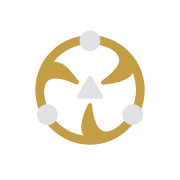
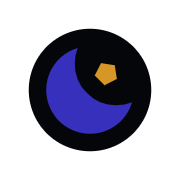
road to hashira (#341)

diff --git a/workspace/apex/src/lib/components/Logo.svelte b/workspace/apex/src/lib/components/Logo.svelte
@@ -1,52 +1,36 @@
-<script lang="ts">
-	interface Props {
-		animate?: boolean;
+<script>
+	function draw(radius = 96, segments = 20) {
+		const step = (2 * Math.PI) / segments;
+		const offset = -Math.PI / 2;
+		let d = '';
+		for (let i = 0; i <= segments; i++) {
+			const angle = i * step + offset;
+			const x = (Math.cos(angle) * radius).toFixed(2);
+			const y = (Math.sin(angle) * radius).toFixed(2);
+			d += i === 0 ? `M ${x} ${y}` : `L ${x} ${y}`;
+		}
+		return d + ' Z';
 	}
-	const { animate }: Props = $props();
 </script>
 
 <svg
 	aria-label="Alkamauss"
 	xmlns="http://www.w3.org/2000/svg"
 	viewBox="-128 -128 256 256"
-	fill="none"
-	stroke="#c49e45"
-	stroke-width="8"
-	stroke-linecap="round"
-	stroke-linejoin="round"
-	class:animate
+	fill="var(--color-accent-primary)"
+	stroke="var(--color-base)"
+	stroke-width="32"
 >
-	<circle r="92" fill="none" stroke-width="16" />
-	<polygon points="20,12 0,-22 -20,12" fill="#e1e0e4" stroke="#e1e0e4" />
-
-	<g fill="#c49e45">
-		<defs><path id="leaf" d="M 32 0 Q 72 24 14 64 Q 42 4 0 0 Z" /></defs>
-
-		<use href="#leaf" transform="rotate(30) translate(0, -88)" />
-		<use href="#leaf" transform="rotate(150) translate(0, -88)" />
-		<use href="#leaf" transform="rotate(270) translate(0, -88)" />
-	</g>
-
-	<g fill="#e1e0e4" stroke="#e1e0e4" stroke-width="6">
-		<circle r="16" transform="translate(0, -90)" />
-		<circle r="16" transform="rotate(120) translate(0, -90)" />
-		<circle r="16" transform="rotate(-120) translate(0, -90)" />
-	</g>
+	<circle r="96" />
+	<path
+		fill="var(--color-base)"
+		stroke-width="16"
+		d="M 0 -96 A 1 1 0 0 0 96 0 C 96 -54 54 -96 0 -96"
+	/>
+	<path
+		d={draw(24, 5)}
+		fill="var(--color-accent-secondary)"
+		stroke-width="4"
+		transform="translate(30, -30) rotate(45)"
+	/>
 </svg>
-
-<style>
-	svg {
-		&.animate {
-			animation: rotate 42s linear infinite;
-		}
-	}
-
-	@keyframes rotate {
-		from {
-			transform: rotate(0deg);
-		}
-		to {
-			transform: rotate(360deg);
-		}
-	}
-</style>

diff --git a/workspace/apex/src/app.css b/workspace/apex/src/app.css
@@ -20,16 +20,17 @@
 	--transition-fast: calc(var(--transition-base) / 2);
 	--transition-slow: calc(var(--transition-base) * 2);
 
-	--color-base: oklch(0.144 0.008 275);
-	--color-surface: oklch(0.186 0.016 275);
-	--color-overlay: oklch(0.232 0.016 275);
-	--color-border: oklch(0.276 0.008 275);
-	--color-code-block: #1c1c21;
+	--color-base: oklch(0.12 0.01 275);
+	--color-surface: oklch(0.18 0.02 275);
+	--color-overlay: oklch(0.24 0.03 275);
+	--color-border: oklch(0.32 0.02 275);
+	--color-code-block: oklch(0.2 0.01 275);
 
-	--color-text: oklch(0.787 0.008 275);
-	--color-text-muted: oklch(0.717 0.008 275);
-	--color-accent-primary: oklch(0.424 0.18 275);
-	--color-accent-secondary: oklch(0.717 0.115 85);
+	--color-text: oklch(0.82 0.01 275);
+	--color-text-muted: oklch(0.72 0.01 275);
+
+	--color-accent-primary: oklch(0.424 0.21 275);
+	--color-accent-secondary: oklch(0.72 0.14 75);
 	--color-accent-tertiary: #ce5a57; /* red-rust */
 	--color-form-error: #b24d4d; /* red-oxide */
 	--color-form-highlight: #5fbceb;

diff --git a/workspace/apex/src/routes/atelier/+page.svelte b/workspace/apex/src/routes/atelier/+page.svelte
@@ -1,5 +1,4 @@
 <script lang="ts">
-	import Logo from '$lib/components/Logo.svelte';
 	import Project from './Project.svelte';
 
 	const alkamauss = $state({
@@ -51,7 +50,7 @@
 		{@const ongoing = new Date().getFullYear() - 2017}
 
 		{#snippet logo()}
-			<Logo animate />
+			<img src="/favicon.svg" alt="Alkamauss logo" />
 		{/snippet}
 
 		<!-- prettier-ignore -->
@@ -103,7 +102,7 @@
 		bind:open={alkamauss['favicon']}
 	>
 		{#snippet logo()}
-			<Logo />
+			<img src="/favicon.svg" alt="Alkamauss logo" />
 		{/snippet}
 
 		<!-- prettier-ignore -->

diff --git a/workspace/apex/src/routes/Navigation.svelte b/workspace/apex/src/routes/Navigation.svelte
@@ -1,6 +1,4 @@
 <script lang="ts">
-	import Logo from '$lib/components/Logo.svelte';
-
 	import { outside } from 'syv/attachment';
 	import { afterNavigate } from '$app/navigation';
 	import { page } from '$app/state';
@@ -13,7 +11,7 @@
 
 <nav {@attach outside(() => (opened = false))}>
 	<a href="/" class="logo" aria-label="Alkamauss">
-		<Logo animate />
+		<img src="/favicon.svg" alt="Alkamauss logo" />
 	</a>
 
 	{@render link('atelier', 'flask')}

diff --git a/workspace/apex/src/routes/+page.server.ts b/workspace/apex/src/routes/+page.server.ts
@@ -11,7 +11,7 @@ export async function load({ fetch }) {
 		posts: (p as Items['/posts']).slice(0, 4),
 		reviews: (r as Items['/reviews']).slice(0, 4),
 		meta: {
-			title: 'Alkamauss — A Digital Atelier',
+			title: 'Alkamauss • A Digital Atelier',
 			description:
 				'seeing life through a shifting lens in a quiet corner of the web. where everyday moments, distant journeys, and personal echoes turn into stories worth holding.',
 		},

diff --git a/workspace/apex/src/routes/Footer.svelte b/workspace/apex/src/routes/Footer.svelte
@@ -11,7 +11,7 @@
 	const range = $derived.by(() => {
 		const current = new Date().getFullYear();
 		if (from === current) return from;
-		return `${from}&ndash;${current}`;
+		return from + '–' + current;
 	});
 </script>
 
@@ -26,7 +26,7 @@
 		<span>»</span>
 	</section>
 
-	<p>© {@html range} Ignatius Bagus.</p>
+	<p>© {range} Ignatius Bagus.</p>
 </footer>
 
 <style>

diff --git a/workspace/favicon/src/routes/+layout.svelte b/workspace/favicon/src/routes/+layout.svelte
@@ -1,8 +1,8 @@
 <script>
+	import favicon from '$static/favicon.svg';
 	import '@fontsource-variable/brygada-1918';
 	import '@ignatiusmb/styles/core.css';
 	import '$apex/app.css';
-	import favicon from './favicon.png';
 
 	import MetaHead from 'syv/core/MetaHead.svelte';
 	import Footer from '$apex/routes/Footer.svelte';

diff --git a/workspace/apex/src/routes/+error.svelte b/workspace/apex/src/routes/+error.svelte
@@ -5,12 +5,6 @@
 <article>
 	<h1>{page.status}</h1>
 	<pre>{page.error?.message}</pre>
-
-	{#if page.params.slug}
-		{@const [, parent] = page.url.pathname.split('/')}
-		{@const search = `/${parent}?q=${page.params.slug}`}
-		<p>Try <a href={search}>{search}</a>.</p>
-	{/if}
 </article>
 
 <style>

diff --git a/workspace/apex/src/routes/auth/+page.svelte b/workspace/apex/src/routes/auth/+page.svelte
@@ -1,5 +1,4 @@
 <script lang="ts">
-	import Logo from '$lib/components/Logo.svelte';
 	import { enhance } from '$app/forms';
 
 	const { data, form } = $props();
@@ -7,7 +6,7 @@
 
 <header>
 	<a href="/">
-		<Logo animate />
+		<img src="/favicon.svg" alt="Alkamauss logo" />
 	</a>
 </header>
 

diff --git a/workspace/apex/src/lib/dialog/SearchFilter.svelte b/workspace/apex/src/lib/dialog/SearchFilter.svelte
@@ -21,7 +21,7 @@
 <Dialog
 	{...props}
 	styles={{
-		'--backdrop-color': 'rgba(0, 0, 0, 0.87)',
+		'--backdrop-color': 'oklch(0 0 0 / 0.42)',
 		'--background': 'var(--color-base)',
 		'--border-radius': 'var(--rounding-box)',
 		'--padding': '1rem 1.5rem 1.5rem',

diff --git a/workspace/apex/src/lib/pages/Article.svelte b/workspace/apex/src/lib/pages/Article.svelte
@@ -310,7 +310,7 @@
 			scroll-margin-top: 4.8rem;
 
 			@media (min-width: 549px) {
-				scroll-margin-top: 1.5rem;
+				scroll-margin-top: 1.3rem;
 			}
 		}
 		h2 {

diff --git a/workspace/favicon/svelte.config.js b/workspace/favicon/svelte.config.js
@@ -11,6 +11,7 @@ const config = {
 
 		alias: {
 			$apex: '../apex/src',
+			$static: '../apex/static',
 		},
 
 		output: {
